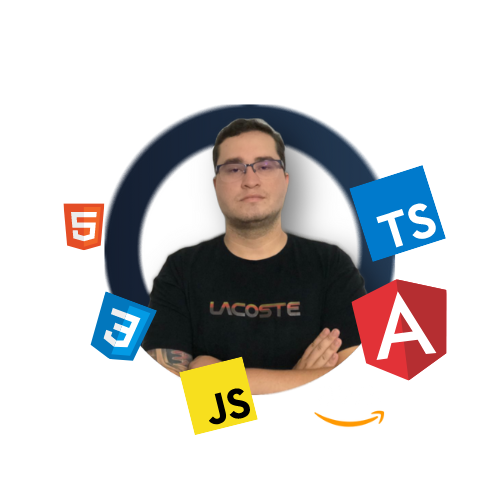
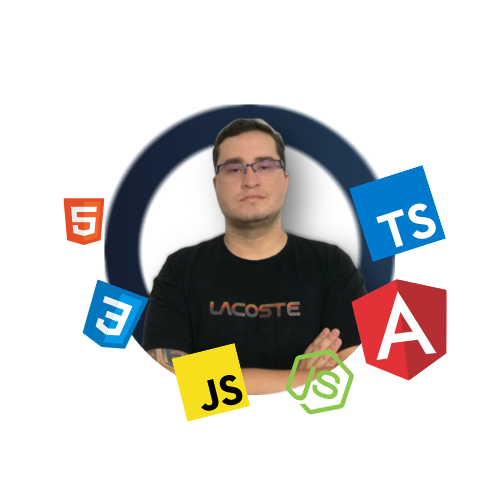
game blog

diff --git a/src/app/components/contact-card/contact-card.component.html b/src/app/components/contact-card/contact-card.component.html
@@ -7,7 +7,7 @@
   <div class="contact-card__container">
     <div class="contact-card__content">
       <div class="card__header">
-        <img src="../../../assets/images/perfil(2).png" alt="imagem de perfil">
+        <img src="assets/images/perfil(2).png" alt="imagem de perfil">
 
         <h2>Entre em <span>contato</span> e saiba mais sobre meu  <span>trabalho</span>.</h2>
       </div>
@@ -16,16 +16,16 @@
 
       <div class="contact__buttons">
         <button class="button_wapp">
-          <img src="../../../assets/images/whatsapp-logo.png" alt="Logo do WhatsApp">
+          <img src="assets/images/whatsapp-logo.png" alt="Logo do WhatsApp">
           <a href="http://wa.me/5562992533318" target="_blank">WhatsApp</a>
         </button>
         <button class="button_lk">
-          <img src="../../../assets/images/linkedin.png" alt="Logo do LinkedIn">
+          <img src="assets/images/linkedin.png" alt="Logo do LinkedIn">
           <a href="https://www.linkedin.com/in/elisbertojunior" target="_blank">
             LinkedIn</a>
         </button>
         <button class="button_gh">
-          <img src="../../../assets/images/github.png" alt="Logo do GitHub">
+          <img src="assets/images/github.png" alt="Logo do GitHub">
           <a href="https://github.com/ElisbertoJunior" target="_blank">GitHub</a>
         </button>
       </div>

diff --git a/src/app/components/about-me/about-me.component.html b/src/app/components/about-me/about-me.component.html
@@ -7,15 +7,17 @@
 
   <div class="about__container">
     <div class="about__img">
-      <img src="../../../assets/images/perfil(2).png" alt="">
+      <img src="assets/images/perfil(2).png" alt="">
     </div>
     <div class="about__description">
       <p>
         Desenvolvedor de Software, iniciando no desenvolvimento em 2021, me considero entusiasta em novas tecnologias e adquirindo conhecimento dia após dia.
         Meu foco de desenvolvimento e com JavaScript, TypeScript, Angular dentre outras tecnologias que uso no meu dia a dia.
-        Sou ágil e consistente em aprender qualquer tecnologia e alta adaptabilidade às mudanças, pronto para encarar qualquer desafio!
-        Se eu pudesse me definir em 3 palavras, certamente seriam: focado, perseverante e esforçado!
+
       </p>
+      <br>
+      <p> Sou ágil e consistente em aprender qualquer tecnologia e alta adaptabilidade às mudanças, pronto para encarar qualquer desafio!
+        Se eu pudesse me definir em 3 palavras, certamente seriam: focado, perseverante e esforçado!</p>
     </div>
   </div>
 

diff --git a/src/app/components/technologies/technologies.component.html b/src/app/components/technologies/technologies.component.html
@@ -6,11 +6,11 @@
   </app-secondary-title>
 
   <div class="tech-img__container">
-    <img src="../../../assets/images/icons8-html-5-144.png" alt="Icone HTML">
-    <img src="../../../assets/images/icons8-css3-144.png" alt="Icone CSS">
-    <img src="../../../assets/images/icons8-javascript-144.png" alt="Icone JavaScript">
-    <img src="../../../assets/images/icons8-angularjs-144.png" alt="Icone Angular">
-    <img src="../../../assets/images/icons8-typescript-144.png" alt="Icone TypeScript">
-    <img src="../../../assets/images/icons8-amazon-web-services-144.png" alt="Icone AWS">
+    <img src="assets/images/icons8-html-5-144.png" alt="Icone HTML">
+    <img src="assets/images/icons8-css3-144.png" alt="Icone CSS">
+    <img src="assets/images/icons8-javascript-144.png" alt="Icone JavaScript">
+    <img src="assets/images/icons8-angularjs-144.png" alt="Icone Angular">
+    <img src="assets/images/icons8-typescript-144.png" alt="Icone TypeScript">
+    <img width="144" src="assets/images/node.png" alt="Icone AWS">
   </div>
 </div>

diff --git a/src/app/components/project-card/project-card.component.css b/src/app/components/project-card/project-card.component.css
@@ -22,6 +22,7 @@
 }
 
 .card-description  {
+  height: 6.25rem;
   color: rgb(97, 95, 95);
   margin: 0.625rem 0;
 }
@@ -68,5 +69,22 @@
 a {
   text-decoration: none;
   color: white;
+}
+
+@media screen and (max-width: 790px) {
+  .card-description  {
+    font-size: 15px;
+    height: 2rem;
+    color: rgb(97, 95, 95);
+    margin: 0.625rem 0;
+  }
+}
+
+@media screen and (max-width: 610px) {
+  .card-description  {
+    height: 6.25rem;
+    color: rgb(97, 95, 95);
+    margin: 0.625rem 0;
+  }
 }
 

diff --git a/src/app/pages/projects/projects.component.css b/src/app/pages/projects/projects.component.css
@@ -19,7 +19,17 @@
   }
 }
 
-@media screen and (max-width: 670px) {
+
+@media screen and (max-width: 1200px) {
+  .project-cards__container {
+    display: grid;
+    gap: 3.125rem;
+    grid-template-columns: 1fr 1fr;
+    padding: 0.625rem 2.5rem 2.5rem 2.5rem;
+  }
+}
+
+@media screen and (max-width: 790px) {
   .project-cards__container {
     display: grid;
     gap: 3.125rem;

diff --git a/src/app/components/curriculum-card/curriculum-card.component.html b/src/app/components/curriculum-card/curriculum-card.component.html
@@ -21,7 +21,7 @@
             <p>elisberto_jr@hotmail.com</p>
           </div>
           <div class="git-hub">
-            <img src="../../../assets/images/github-mark-white.png"
+            <img src="assets/images/github-mark-white.png"
             height="23">
             <p>github.com/ElisbertoJunior</p>
           </div>

diff --git a/src/app/components/banner/banner.component.css b/src/app/components/banner/banner.component.css
@@ -31,6 +31,7 @@
   width: 50%;
   display: flex;
   justify-content: flex-end;
+
 }
 
 @media screen and (max-width: 879px) {
@@ -52,12 +53,16 @@
   }
 
   .image__container {
+    width: 80%;
     display: flex;
     justify-content: center;
-    position: absolute;
-    top: 300px;
-    z-index: -1;
+
   }
+
+
+
+
+
 
 }
 

diff --git a/src/app/components/menu-bar/menu-bar.component.css b/src/app/components/menu-bar/menu-bar.component.css
@@ -15,12 +15,19 @@
 
 .title__container {
   margin-left: 0.313rem;
+
+}
+
+.title__container {
+  margin-bottom: -0.625rem;
+
 }
 
 .list-menu__container > ul {
   display: flex;
   gap: 0.938rem;
   margin-right: 0.313rem;
+  margin-top: 0.188rem;
 }
 
 .list-menu__container > ul > li {

diff --git a/src/app/components/banner/banner.component.html b/src/app/components/banner/banner.component.html
@@ -8,7 +8,7 @@
       </h2>
     </div>
     <div class="image__container">
-      <img src="../../../assets/images/foto-de-capa.png" alt="">
+      <img src="assets/images/foto-de-capa.png" alt="">
 
     </div>
   </div>

diff --git a/src/app/components/menu-bar/menu-bar.component.html b/src/app/components/menu-bar/menu-bar.component.html
@@ -1,7 +1,7 @@
  <div class="menu-bar">
   <div class="menu-bar__container">
     <div class="title__container">
-      <h1>EJRDEV</h1>
+        <img src="assets/images/EJRDEV.png" alt="Logo">
     </div>
 
 

diff --git a/src/app/components/about-me/about-me.component.css b/src/app/components/about-me/about-me.component.css
@@ -7,8 +7,9 @@
 
 .about__container {
   display: flex;
-
   justify-content: space-between;
+  align-items: center;
+  gap: 0.625rem;
   max-width: 1200px;
   margin: 3.125rem auto;
 }
